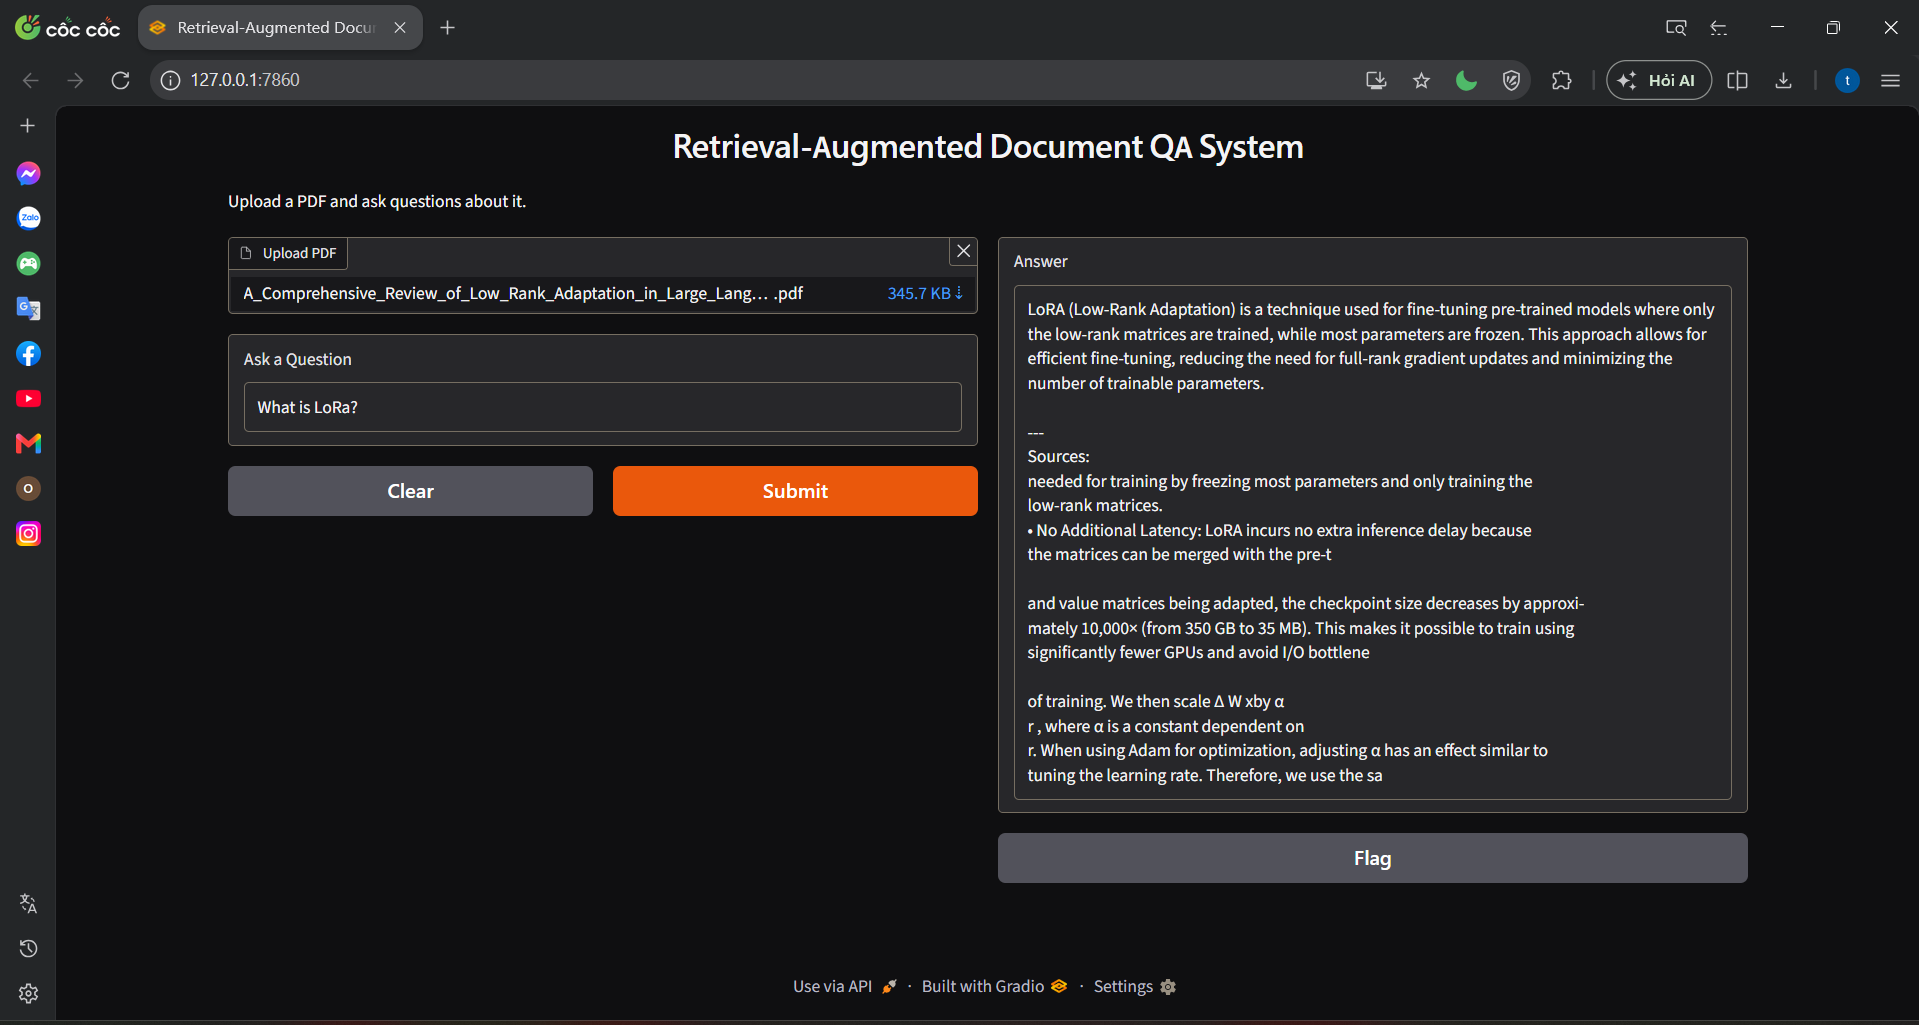
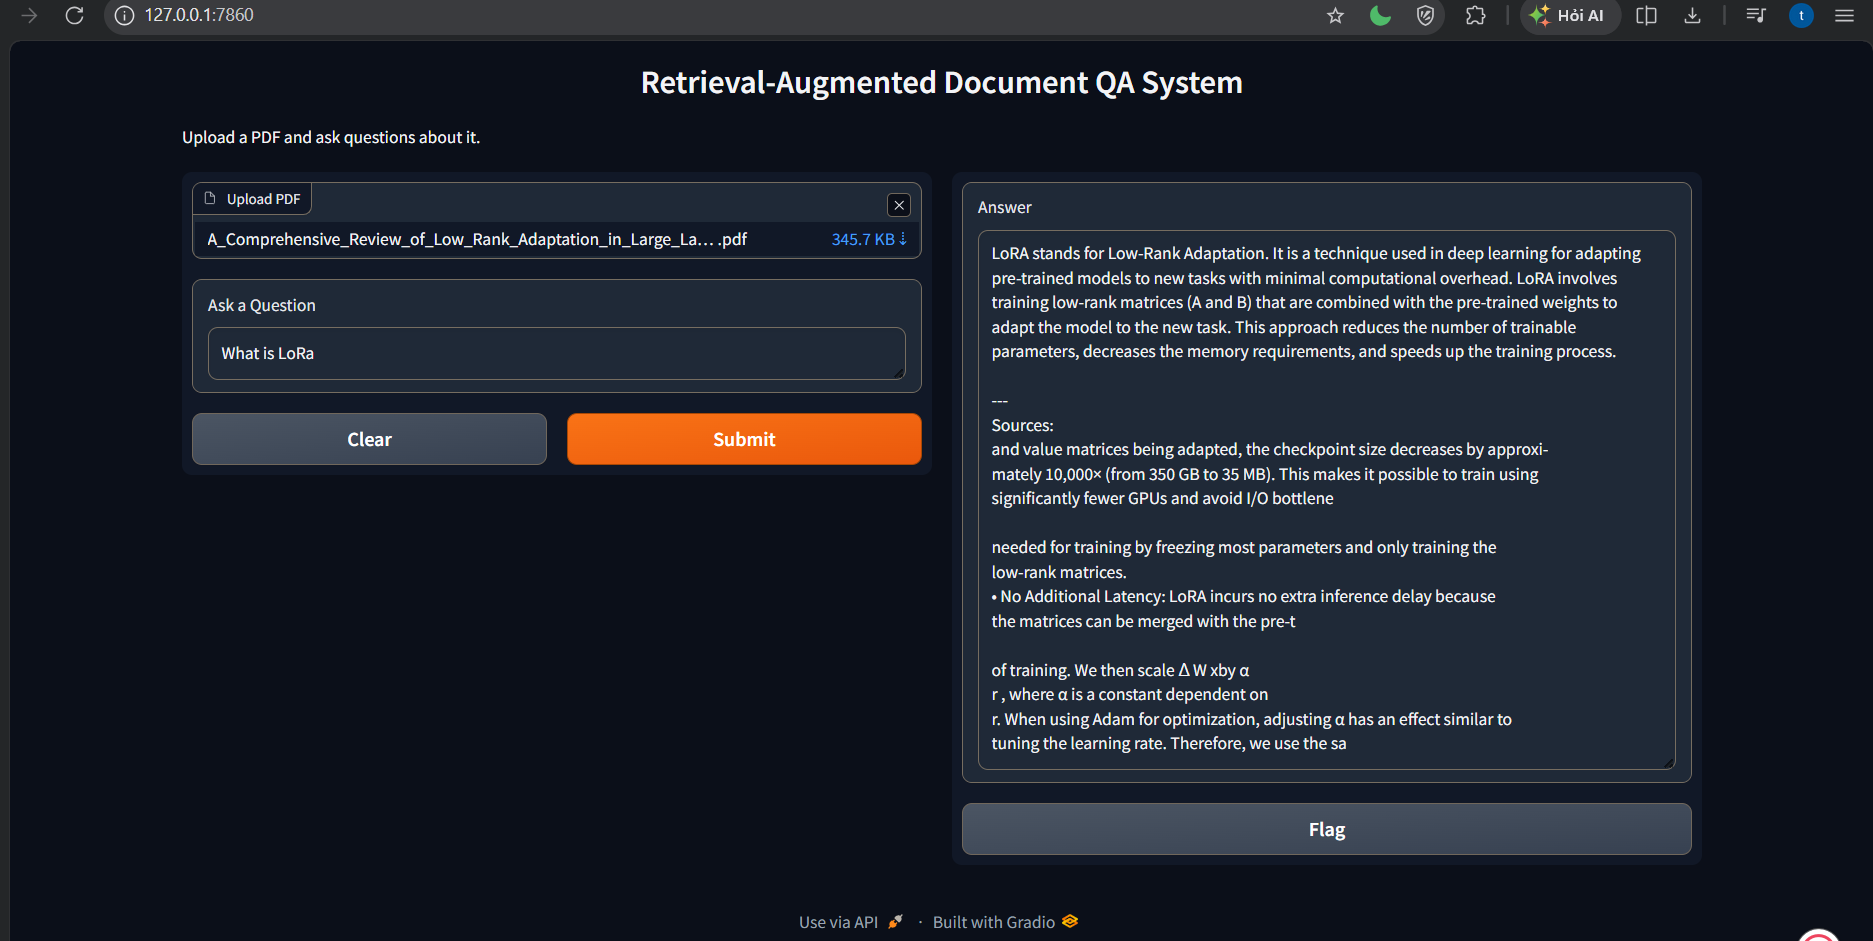
update readme file

Changed region(s): [[0.0929, 0.1849, 0.929, 0.9245], [0.0, 0.0, 1.0, 1.0]]

diff --git a/rag-document-qa/README.md b/rag-document-qa/README.md
@@ -10,20 +10,24 @@ A Retrieval-Augmented Generation (RAG) application that allows users to upload P
 - Automatic text chunking with overlap
 - Vector similarity search with FAISS
 - Retrieval-Augmented Generation (RAG)
-- Retrieval accuracy metrics printed to terminal
+- In-memory vector database caching for repeated queries
+- Retrieval and pipeline performance metrics printed to terminal
 - Interactive Gradio web interface
-- Source-aware responses with snippet citations
+- Source snippets included with generated answers
+- Grounded responses based on retrieved document content
 
 ---
 
 ##  Architecture
 
 1. **Document Upload** — PDF parsed with PyPDFLoader
-2. **Text Chunking** — Recursive character splitting (1000-char chunks, 200-char overlap)
+2. **Text Chunking** — Recursive character splitting (1000-character chunks, 200-character overlap)
 3. **Embedding Generation** — `all-MiniLM-L6-v2` via HuggingFace
-4. **Vector Storage** — FAISS in-memory index
-5. **Similarity Retrieval** — Top-3 chunks by cosine similarity
-6. **LLM Response Generation** — Groq (Llama 3.1 8B)
+4. **Vector Storage** — FAISS in-memory index using normalized embeddings
+5. **Similarity Retrieval** — Top-3 chunks using maximum inner product / cosine similarity
+6. **Vector Cache** — Previously processed PDFs are cached in memory to avoid rebuilding the index
+7. **LLM Response Generation** — Groq (Llama 3.1 8B)
+8. **Source Output** — Retrieved document snippets are appended to the generated answer
 
 ---
 
@@ -35,6 +39,8 @@ A Retrieval-Augmented Generation (RAG) application that allows users to upload P
 | LLM | Groq — `llama-3.1-8b-instant` |
 | Embeddings | HuggingFace `all-MiniLM-L6-v2` |
 | Vector Store | FAISS |
+| PDF Loader | PyPDFLoader |
+| Text Splitter | RecursiveCharacterTextSplitter |
 | UI | Gradio |
 | Language | Python 3.11 |
 
@@ -54,9 +60,11 @@ rag-document-qa/
 │   ├── text_splitter.py
 │   └── vector_store.py
 │
+├── DEMO/
+│   ├── dashboard.png
+│   └── retrieval_metircs.png
+│
 ├── app.py
-├── .env
-├── DEMO.png
 ├── README.md
 └── requirements.txt
 ```
@@ -94,7 +102,7 @@ pip install -r requirements.txt
 
 ##  Environment Variables
 
-Create a `.env` file in the project root:
+Create a `.env` file and add your Groq API key:
 
 ```
 GROQ_API_KEY=your_groq_api_key
@@ -110,21 +118,46 @@ Get a free API key at [console.groq.com](https://console.groq.com).
 python app.py
 ```
 
-Open `http://127.0.0.1:7860` in your browser.
+The application will run locally at:
+
+```
+http://127.0.0.1:7860
+```
+
+The Gradio interface also attempts to create a public share link when the application is launched.
 
 ---
 
-##  Retrieval Metrics
+##  Retrieval & Pipeline Metrics
 
-After each query, retrieval accuracy is printed to the terminal:
+After each query, the system prints pipeline performance metrics to the terminal:
 
 ```
-── Retrieval Accuracy ───────────────────────
-  Docs retrieved       : 3
-  Avg similarity score : 0.9682
-  Query terms in chunks: 100.00%
+── Pipeline Metrics ──────────────────────────
+  Index build            : 15.791s
+  Retrieval               : 0.037s
+  Generation              : 1.036s
+  Total                   : 16.863s
+  Docs retrieved          : 3
+  Avg cosine similarity   : 0.5301
+  Query terms in chunks   : 100.00%
+  Answer length (~tokens) : 84
 ─────────────────────────────────────────────
 ```
+
+The metrics include:
+
+- **Index build** — Time required to load, split, embed, and build the FAISS index. If the same PDF is queried again, the cached index is reused.
+- **Retrieval** — Time required to retrieve the top 3 relevant chunks.
+- **Generation** — Time required for the LLM to generate the answer.
+- **Total** — Total pipeline execution time.
+- **Docs retrieved** — Number of document chunks retrieved.
+- **Avg cosine similarity** — Average similarity score of the retrieved chunks.
+- **Query terms in chunks** — Percentage of non-stopword query terms found in the retrieved content.
+- **Answer length** — Approximate number of tokens in the generated answer.
+
+The system keeps up to **8 processed PDF indexes in memory** and reuses them when the same document is queried again.
+
 ![Metrics](DEMO/retrieval_metircs.png)
 
 ---
@@ -139,8 +172,11 @@ After each query, retrieval accuracy is printed to the terminal:
 
 1. Upload a PDF document
 2. Ask a question about the document
-3. The system retrieves the top 3 most relevant chunks
-4. The LLM generates a grounded answer with source snippets
+3. The system builds or retrieves the cached FAISS index
+4. The top 3 most relevant chunks are retrieved
+5. The LLM generates an answer using the retrieved context
+6. Relevant source snippets are appended to the answer
+7. Pipeline performance metrics are printed to the terminal
 
 ---
 
@@ -148,8 +184,9 @@ After each query, retrieval accuracy is printed to the terminal:
 
 - Multi-document support
 - Streaming responses
-- Vector database persistence (ChromaDB / Pinecone)
+- Persistent vector database (ChromaDB / Pinecone)
 - Hybrid search (BM25 + embeddings)
 - Conversation memory
+- More advanced source citation and document metadata
 
 ---
